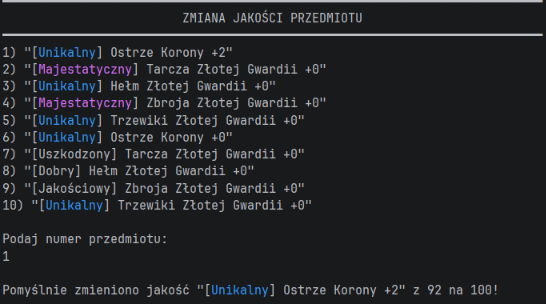
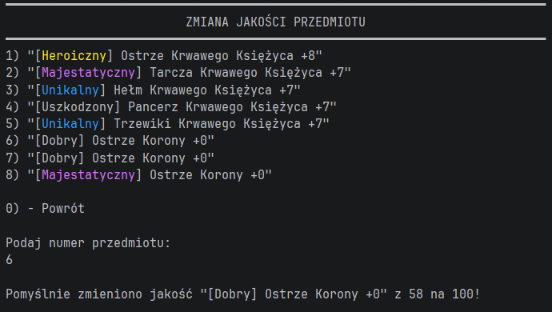
Improve README layout and update gameplay screenshots

Changed region(s): [[0.0, 0.0, 0.9963, 0.7105], [0.0, 0.9178, 0.9029, 0.977], [0.0, 0.7401, 0.3114, 0.8586]]

diff --git a/README.md b/README.md
@@ -1,8 +1,38 @@
 # DEEW RPG
 
-A text-based RPG game written in Python.
+DEEW RPG is a text-based, turn-based RPG developed in Python.
 
-This is my personal project, created to learn Python and practice programming. The game runs in the terminal and is still in development.
+The game features character progression, combat, equipment upgrades, item quality, loot, shops, skills and a JSON save system.
+
+This is my first large personal programming project, built to practice Python, modular code organization and game logic. The project is still in development.
+
+
+## Gameplay Screenshots
+
+### Character and Equipment
+![Character and Equipment](screenshots/02-character.png)
+
+### Combat
+![Combat Victory](screenshots/04-combat-victory.png)
+![Combat Defeat](screenshots/03-combat-defeat.png)
+
+### Item Quality and Upgrades
+<img src="screenshots/05-item-quality.png" width="48%" alt="Item quality reroll">
+<img src="screenshots/06-item-upgrade.png" width="48%" alt="Equipment upgrade">
+
+### Item Quality Comparison
+![Item Quality Comparison](screenshots/10-item-quality-comparison.png)
+
+### Skills and Locations
+<img src="screenshots/07-skills.png" width="48%" alt="Skills">
+<img src="screenshots/08-locations.png" width="48%" alt="Locations">
+
+### Shop
+![Shop](screenshots/09-shop.png)
+
+### Main Menu
+![Main Menu](screenshots/01-main-menu.png)
+
 
 ## Features
 
@@ -76,27 +106,3 @@ The main game systems are implemented, but I plan to continue improving the game
 My name is Dawid. I am learning Python and working towards my first job in software development.
 
 DEEW RPG is my first larger programming project. I created it to practice working with functions, dictionaries, lists, loops, modules and game logic.
-
-## Gameplay Screenshots
-
-### Main Menu
-![Main Menu](screenshots/01-main-menu.png)
-
-### Character and Equipment
-![Character](screenshots/02-character.png)
-
-### Combat
-![Combat Victory](screenshots/04-combat-victory.png)
-![Combat Defeat](screenshots/03-combat-defeat.png)
-
-### Item Quality and Upgrades
-![Item Quality](screenshots/05-item-quality.png)
-![Equipment Upgrade](screenshots/06-item-upgrade.png)
-![Quality Comparison](screenshots/10-item-quality-comparison.png)
-
-### Skills and Locations
-![Skills](screenshots/07-skills.png)
-![Locations](screenshots/08-locations.png)
-
-### Shop
-![Shop](screenshots/09-shop.png)
